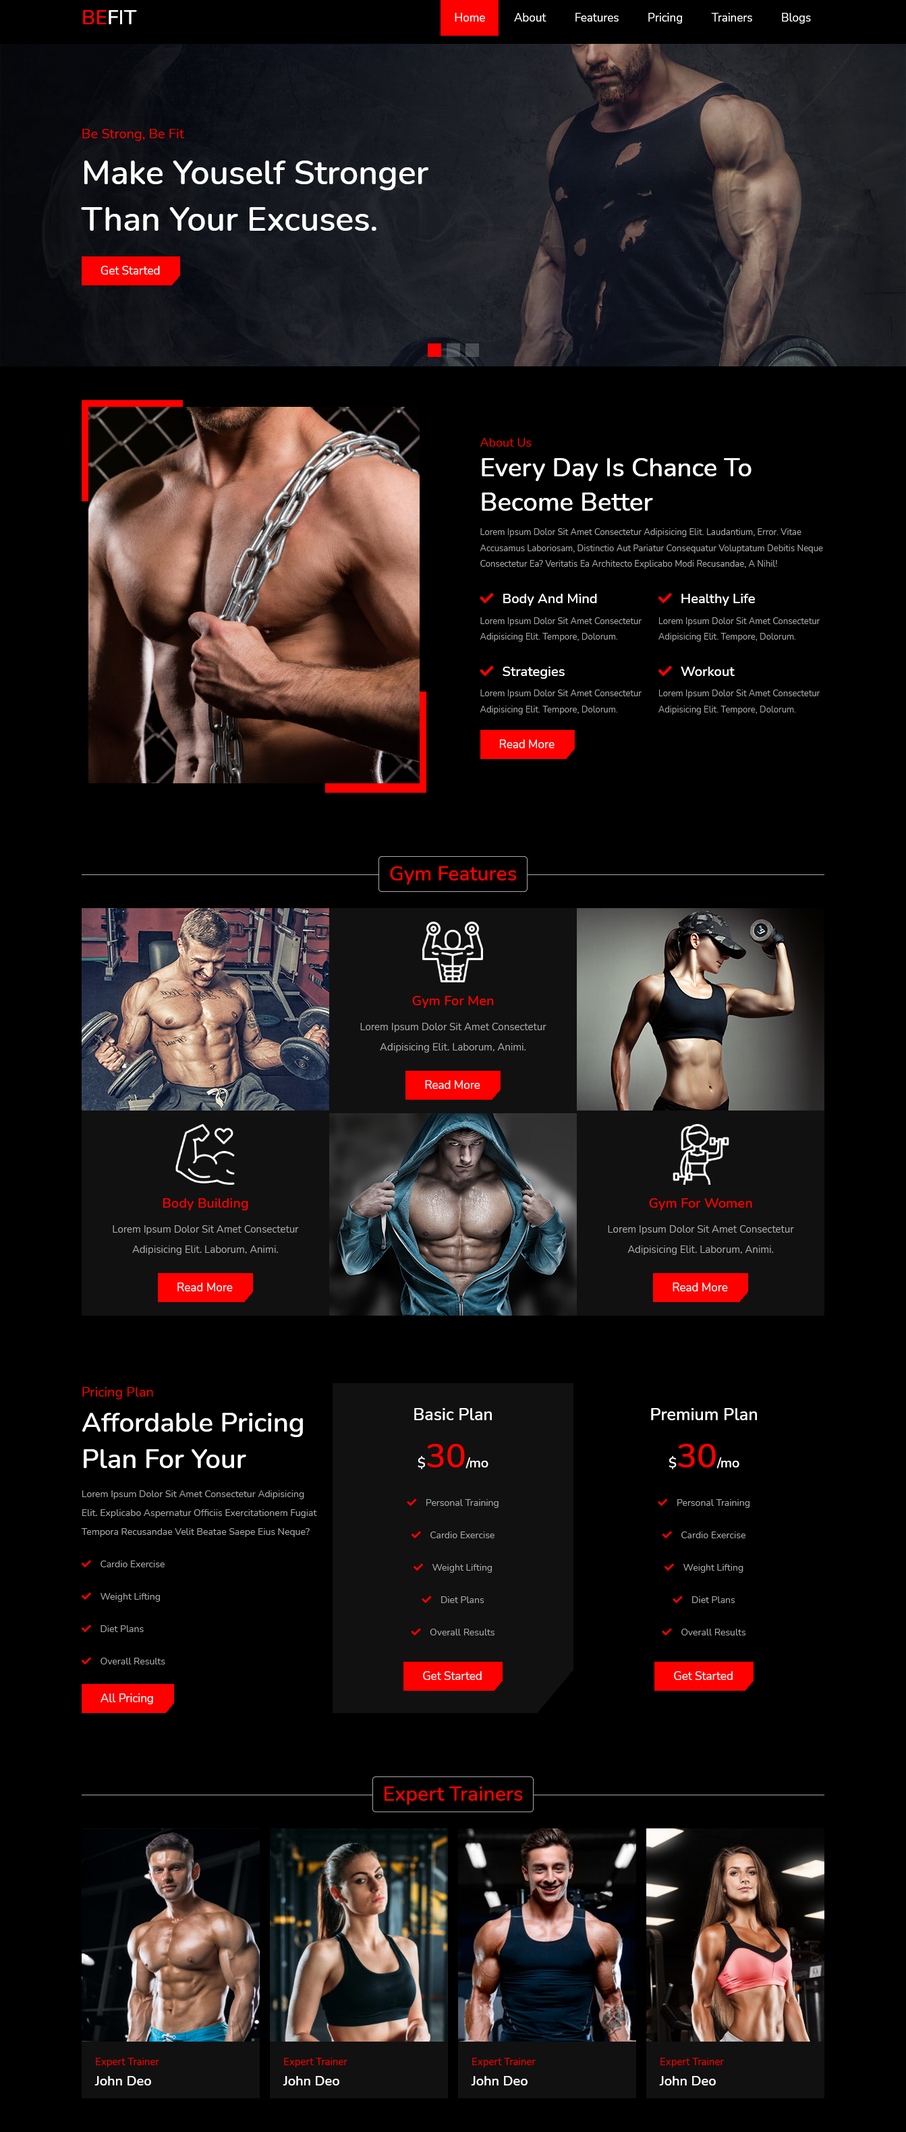
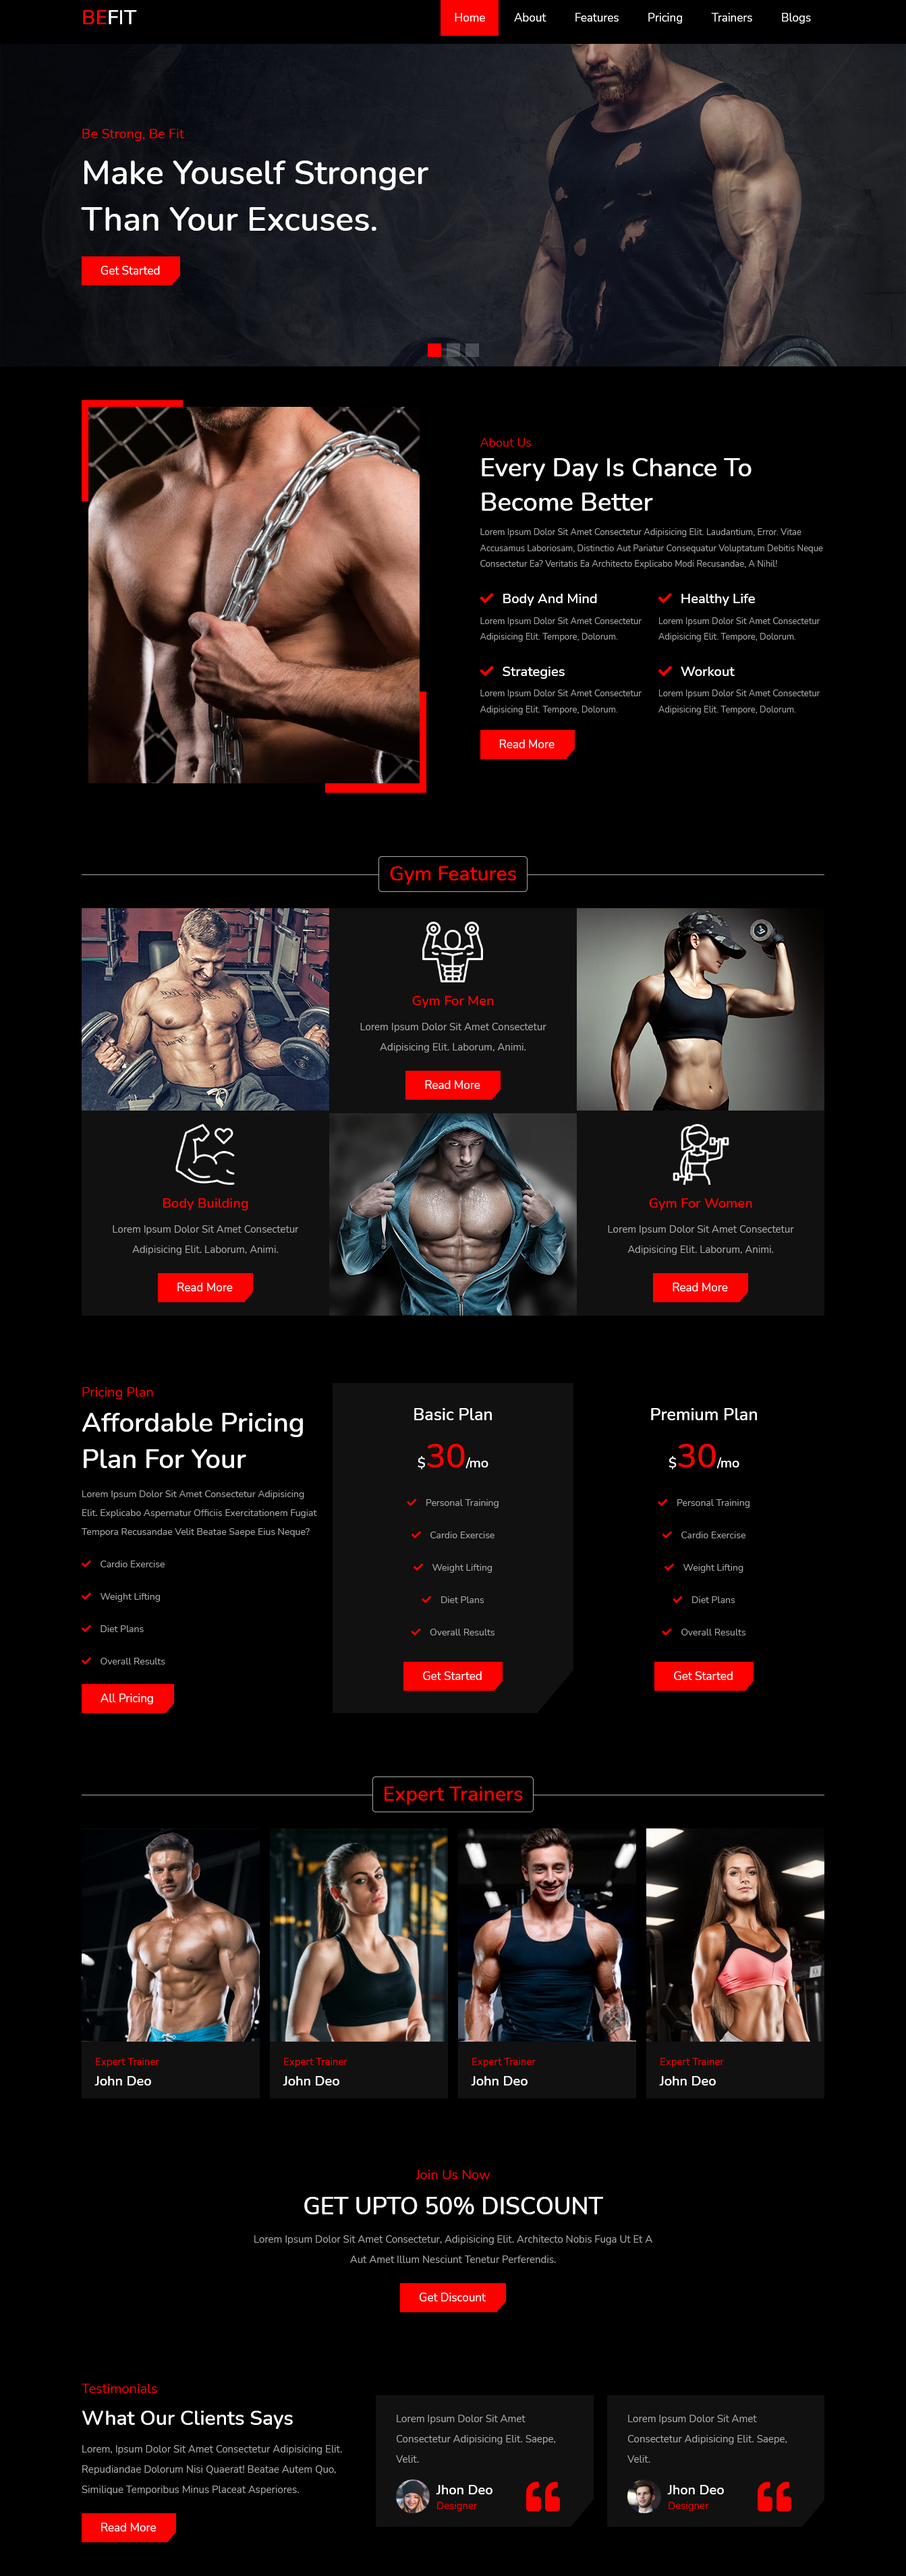
Sección Review Finalizada

diff --git a/index.html b/index.html
@@ -276,14 +276,14 @@
                 <span>testimonials</span>
                 <h3>what our clients says</h3>
                 <p>Lorem, ipsum dolor sit amet consectetur adipisicing elit. Repudiandae dolorum nisi quaerat! Beatae autem quo, similique temporibus minus placeat asperiores.</p>
-                <a href="#">read more</a>
+                <a href="#" class="btn">read more</a>
             </div>
 
-            <div class="review-slider">
+            <div class="swiper review-slider">
 
-                <div class="wrapper">
+                <div class="swiper-wrapper">
 
-                    <div class="slide">
+                    <div class="swiper-slide slide">
                         <p>Lorem ipsum dolor sit amet consectetur adipisicing elit. Saepe, velit.</p>
                         <div class="user">
                             <img src="images/pic-1.png" alt="">
@@ -295,7 +295,7 @@
                         </div>
                     </div><!-- .slide -->
 
-                    <div class="slide">
+                    <div class="swiper-slide slide">
                         <p>Lorem ipsum dolor sit amet consectetur adipisicing elit. Saepe, velit.</p>
                         <div class="user">
                             <img src="images/pic-2.png" alt="">
@@ -307,7 +307,7 @@
                         </div>
                     </div><!-- .slide -->
 
-                    <div class="slide">
+                    <div class="swiper-slide slide">
                         <p>Lorem ipsum dolor sit amet consectetur adipisicing elit. Saepe, velit.</p>
                         <div class="user">
                             <img src="images/pic-3.png" alt="">
@@ -319,7 +319,7 @@
                         </div>
                     </div><!-- .slide -->
 
-                    <div class="slide">
+                    <div class="swiper-slide slide">
                         <p>Lorem ipsum dolor sit amet consectetur adipisicing elit. Saepe, velit.</p>
                         <div class="user">
                             <img src="images/pic-4.png" alt="">

diff --git a/css/style.css b/css/style.css
@@ -507,6 +507,96 @@ section {
   line-height: 2;
 }
 
+/* REVIEW */
+.review {
+  display: -webkit-box;
+  display: -ms-flexbox;
+  display: flex;
+  -webkit-box-align: center;
+      -ms-flex-align: center;
+          align-items: center;
+  -ms-flex-wrap: wrap;
+      flex-wrap: wrap;
+  gap: 2rem;
+}
+
+.review .information {
+  -webkit-box-flex: 1;
+      -ms-flex: 1 1 35rem;
+          flex: 1 1 35rem;
+}
+
+.review .information span {
+  font-size: 2rem;
+  color: #f00;
+}
+
+.review .information h3 {
+  font-size: 3rem;
+  color: #fff;
+  padding-top: 1rem;
+}
+
+.review .information p {
+  color: #aaa;
+  font-size: 1.5rem;
+  line-height: 2;
+  padding: 1rem 0;
+}
+
+.review .review-slider {
+  -webkit-box-flex: 1;
+      -ms-flex: 1 1 60rem;
+          flex: 1 1 60rem;
+}
+
+.review .review-slider .slide {
+  background: linear-gradient(130deg, #111 93%, transparent 90%);
+  padding: 2rem 3rem;
+}
+
+.review .review-slider .slide p {
+  font-size: 1.5rem;
+  line-height: 2;
+  color: #aaa;
+}
+
+.review .review-slider .slide .user {
+  display: -webkit-box;
+  display: -ms-flexbox;
+  display: flex;
+  -webkit-box-align: center;
+      -ms-flex-align: center;
+          align-items: center;
+  margin-top: 1.5rem;
+}
+
+.review .review-slider .slide .user img {
+  height: 5rem;
+  width: 5rem;
+  -o-object-fit: cover;
+     object-fit: cover;
+  border-radius: 50%;
+  margin-right: 1rem;
+}
+
+.review .review-slider .slide .user h3 {
+  font-size: 2rem;
+  color: #fff;
+}
+
+.review .review-slider .slide .user span {
+  color: #f00;
+  font-size: 1.5rem;
+}
+
+.review .review-slider .slide .user i {
+  color: #f00;
+  margin-right: 2rem;
+  margin-left: auto;
+  font-size: 5rem;
+}
+
 /* Media Queries */
 /* @media (max-width:1170px) {
     html {

diff --git a/style.scss b/style.scss
@@ -475,6 +475,82 @@ section {
     }
 }
 
+/* REVIEW */
+.review {
+    display: flex;
+    align-items: center;
+    flex-wrap: wrap;
+    gap: 2rem;
+
+    .information {
+        flex: 1 1 35rem;
+
+        span {
+            font-size: 2rem;
+            color: $red;
+        }
+
+        h3 {
+            font-size: 3rem;
+            color: $white;
+            padding-top: 1rem;
+        }
+
+        p {
+            color: $light-white;
+            font-size: 1.5rem;
+            line-height: 2;
+            padding: 1rem 0;
+        }
+    }
+
+    .review-slider {
+        flex: 1 1 60rem;
+
+        .slide {
+            background: linear-gradient(130deg, $light-bg  93%, transparent 90%);
+            padding: 2rem 3rem;
+
+            p {
+                font-size: 1.5rem;
+                line-height: 2;
+                color: $light-white;
+            }
+
+            .user {
+                display: flex;
+                align-items: center;
+                margin-top: 1.5rem;
+
+                img {
+                    height: 5rem;
+                    width: 5rem;
+                    object-fit: cover;
+                    border-radius: 50%;
+                    margin-right: 1rem;
+                }
+
+                h3 {
+                    font-size: 2rem;
+                    color: $white;
+                }
+
+                span {
+                    color: $red;
+                    font-size: 1.5rem;
+                }
+
+                i {
+                    color: $red;
+                    margin-right: 2rem;
+                    margin-left: auto;
+                    font-size: 5rem;
+                }
+            }
+        }
+    }
+}
+
 
 
 

diff --git a/app.js b/app.js
@@ -21,3 +21,21 @@ var swiper = new Swiper(".home-slider", {
         clickable: true,
     },
 });
+
+var swiper = new Swiper(".review-slider", {
+	spaceBetween: 20,
+	grabCursor: true,
+    loop: true,
+    autoplay: {
+        delay: 5000,
+        disableOnInteraction: false
+    },
+    breakpoints: {
+        0:{
+            sliderPerView: 1,
+        },
+        600:{
+            slidesPerView: 2,
+        }
+    }
+});
